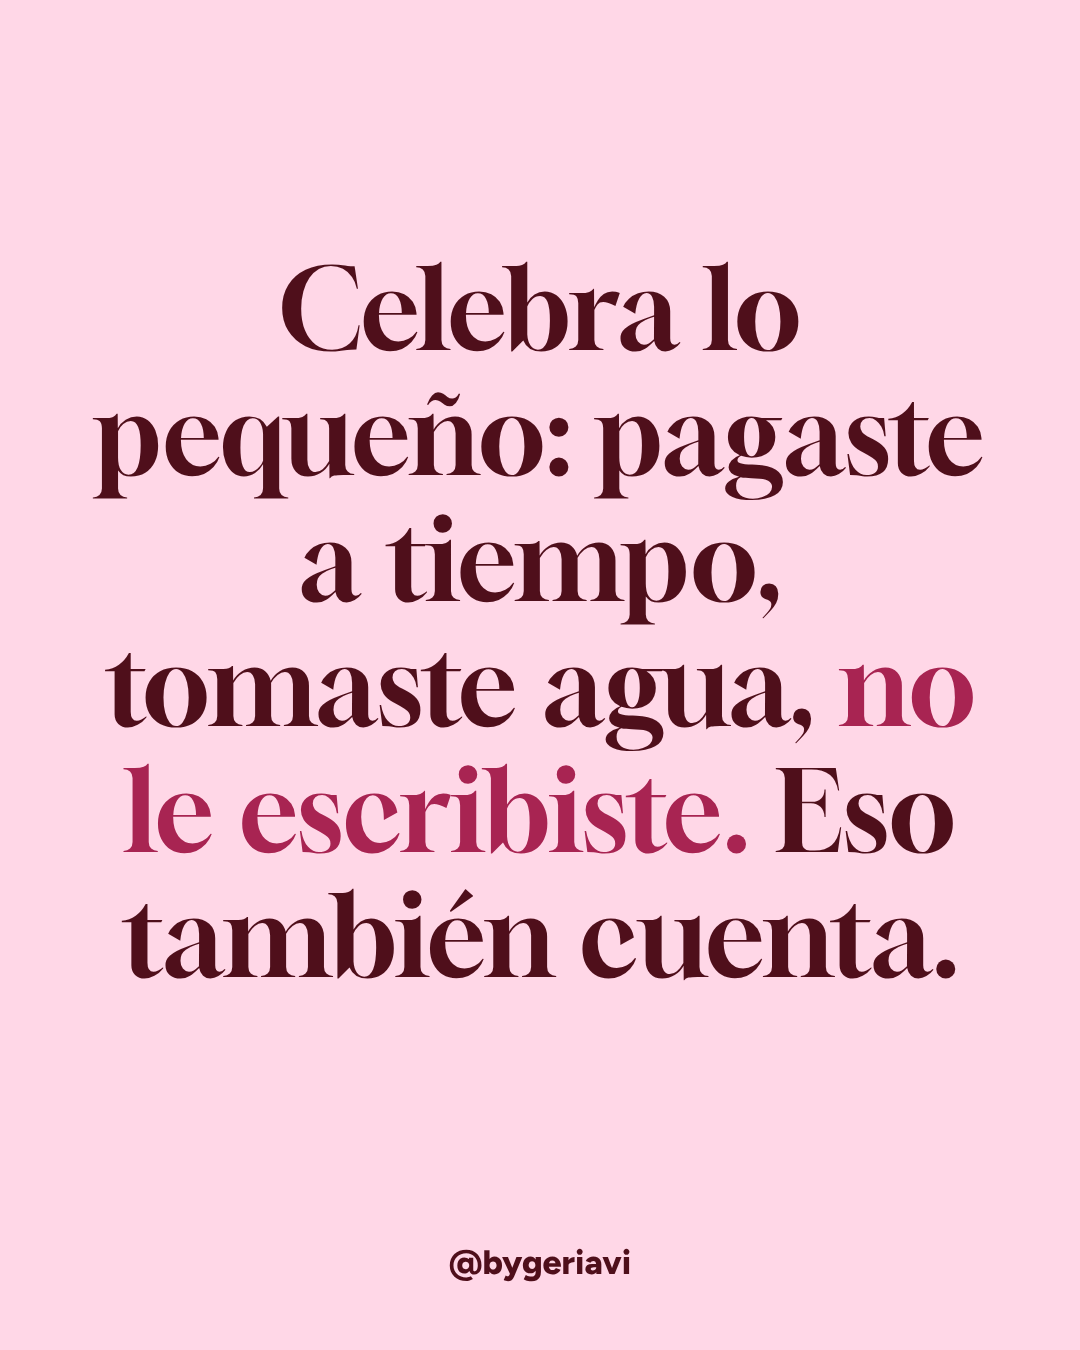
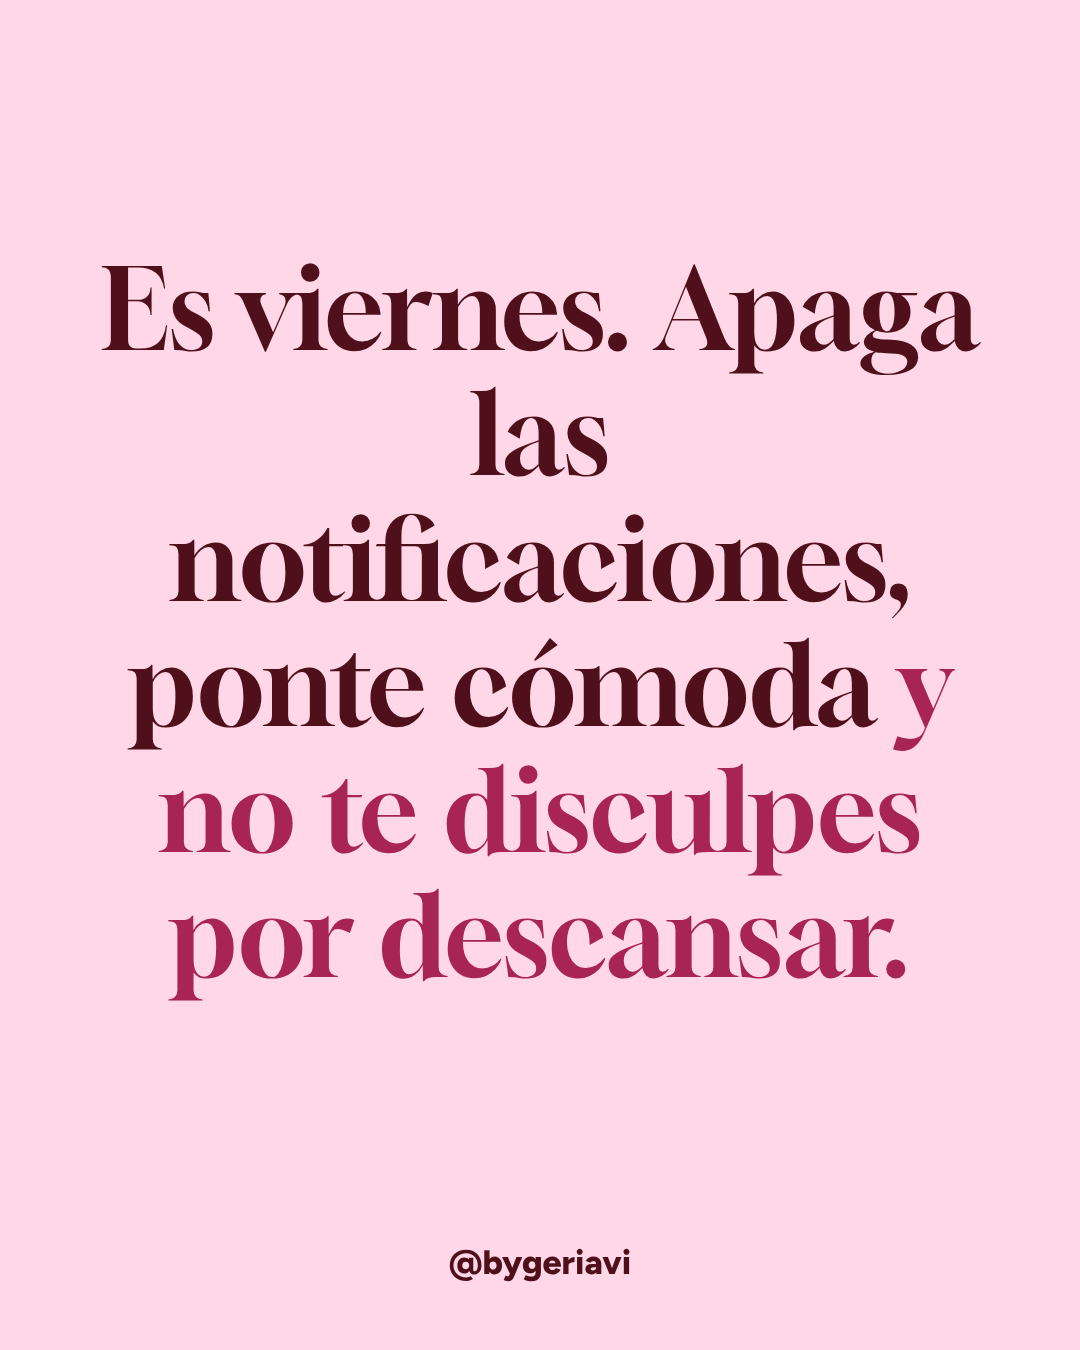
Semana del 9 al 15 rehecha con temas del momento y formato versus
Claude-Session: https://claude.ai/code/session_01F1F5RKgatfUaXD7tWo7dTh

Changed region(s): [[0.0917, 0.1867, 0.9167, 0.7467]]

diff --git a/motor/index.html b/motor/index.html
@@ -220,7 +220,7 @@ h2{font:400 26px var(--display);margin:0}
       const items = it.items || [], top = items.length < 2 ? 470 : 370, bottom = items.length < 2 ? 900 : H - 130, gap = 26;
       const h = (bottom - top - gap * (items.length - 1)) / Math.max(items.length, 1);
       items.forEach((raw, i) => {
-        const m = String(raw).match(/^([^:]{1,14}):\s*(.*)$/), who = m ? m[1] : '', say = m ? m[2] : raw;
+        const m = String(raw).match(/^([^:]{1,22}):\s*(.*)$/), who = m ? m[1] : '', say = m ? m[2] : raw;
         const me = /^yo$/i.test(who.trim()), bw = W - 240, x = me ? W - 64 - bw : 64, y = top + (h + gap) * i;
         ctx.fillStyle = me ? C.wine : C.white; rr(ctx, x, y, bw, h, 34); ctx.fill();
         label(ctx, who, x + 36, y + 52, me ? C.pink : C.rose);
@@ -234,6 +234,21 @@ h2{font:400 26px var(--display);margin:0}
       text(ctx, it.t, { x: M, y: 150, w: W - M * 2, h: 960 }, { font: DISPLAY, max: 112, min: 62, color: C.wine, em: C.rose, lh: 1.12, align: 'center' });
       ctx.font = `800 34px "${BODY}"`; ctx.fillStyle = C.wine; ctx.textAlign = 'center'; ctx.textBaseline = 'alphabetic';
       ctx.fillText(HANDLE, W / 2, H - 76);
+    },
+    // Versus: dos situaciones con etiqueta; items = ['Etiqueta: texto', 'Etiqueta: texto'].
+    versus(ctx, it) {
+      const sp = s => { const m = String(s).match(/^([^:]{1,22}):\s*(.*)$/); return m ? [m[1], m[2]] : ['', s]; };
+      const [la, ta] = sp((it.items || [])[0] || ''), [lb, tb] = sp((it.items || [])[1] || '');
+      bg(ctx, C.white);
+      ctx.fillStyle = C.wine; ctx.fillRect(0, 0, W, 360);
+      label(ctx, 'Versus', M, 110, C.pink);
+      text(ctx, it.t, { x: M, y: 140, w: W - M * 2, h: 190 }, { font: DISPLAY, max: 84, min: 50, color: C.pink, em: C.white, lh: 1.06 });
+      ctx.fillStyle = C.pink; ctx.fillRect(0, 360, W, 445);
+      label(ctx, la, M, 440, C.rose);
+      text(ctx, ta, { x: M, y: 470, w: W - M * 2, h: 300 }, { font: DISPLAY, max: 80, min: 46, color: C.wine, lh: 1.08 });
+      label(ctx, lb, M, 885, C.rose);
+      text(ctx, tb, { x: M, y: 915, w: W - M * 2, h: 290 }, { font: DISPLAY, max: 80, min: 46, color: C.wine, lh: 1.08 });
+      foot(ctx, C.wine);
     },
     // Dos mitades que obligan a elegir.
     pregunta(ctx, it) {
